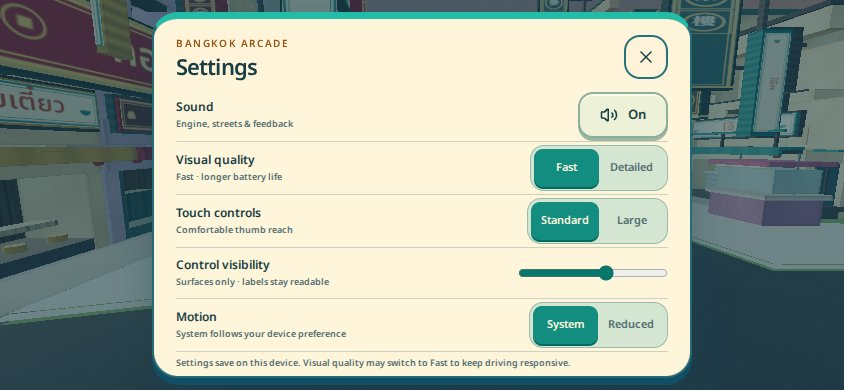
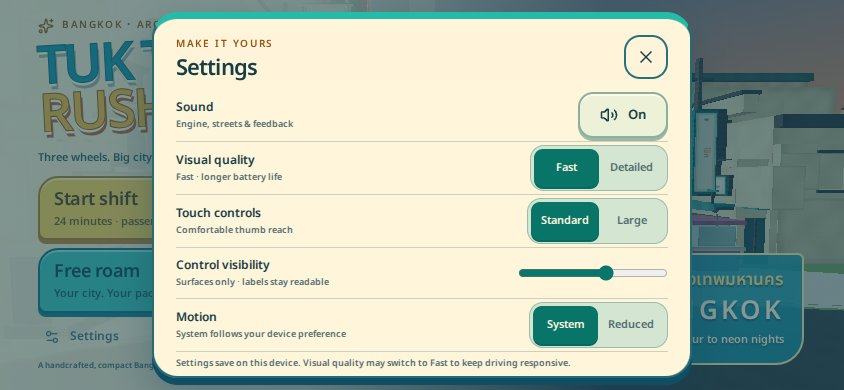
Polish arcade contrast and synchronize the camera regression with completed LOOK transitions

diff --git a/artifacts/tuk-tuk-rush/src/game/ui/night-drive.css b/artifacts/tuk-tuk-rush/src/game/ui/night-drive.css
@@ -363,7 +363,7 @@ body,
   font-weight: 650;
 }
 .tt-seg button[aria-pressed="true"] {
-  background: #138d80; color: #fff8df; box-shadow: 0 2px 0 #086960;
+  background: #087568; color: #fff8df; box-shadow: 0 2px 0 #086960;
 }
 .tt-setting-row input[type="range"] {
   width: 150px;
@@ -839,7 +839,7 @@ body,
   width: 82px; height: 90px; border-radius: 28px 28px 18px 18px; color: #fff9df; border-color: #9ff3ce;
 }
 .tt-pedal.gas:before {
-  background: #0d9f88; box-shadow: inset 0 3px #88ead290;
+  background: #087868; box-shadow: inset 0 3px #88ead290;
 }
 .tt-pedal.gas b {
   font-size: 16px;
@@ -866,7 +866,7 @@ body,
 .tt-boost {
   position: relative; display: grid; grid-template-columns: 22px 1fr; align-content: center; column-gap: 5px;
   width: 101px; height: 44px; padding: 5px 10px; border: 2px solid #a7d8f2; border-radius: 16px; overflow: hidden;
-  background: #267bc4; color: #fff7db; box-shadow: 0 3px 0 #164b78; pointer-events: auto; touch-action: none; transition: transform .1s;
+  background: #196bac; color: #fff7db; box-shadow: 0 3px 0 #164b78; pointer-events: auto; touch-action: none; transition: transform .1s;
 }
 .tt-boost svg {
   grid-row: span 2; align-self: center; color: #ffe27b;
@@ -1065,7 +1065,7 @@ body,
   font-size: 11px;
 }
 .tt-map-filters button[aria-pressed="true"] {
-  background: #168c80;
+  background: #087568;
   color: #fff7e5;
 }
 .tt-map-tools {
@@ -1314,7 +1314,7 @@ body,
   color: var(--ui-muted);
 }
 .tt-inspection button[aria-pressed="true"] {
-  background: #168c80;
+  background: #087568;
   color: #fff7e5;
 }
 .tt-inspection footer > div {
@@ -1387,7 +1387,7 @@ body,
   justify-content: center;
   gap: 16px;
   padding: 30px;
-  background: var(--ui-ink);
+  background: var(--ui-solid);
   color: var(--ui-text);
   text-align: center;
 }
